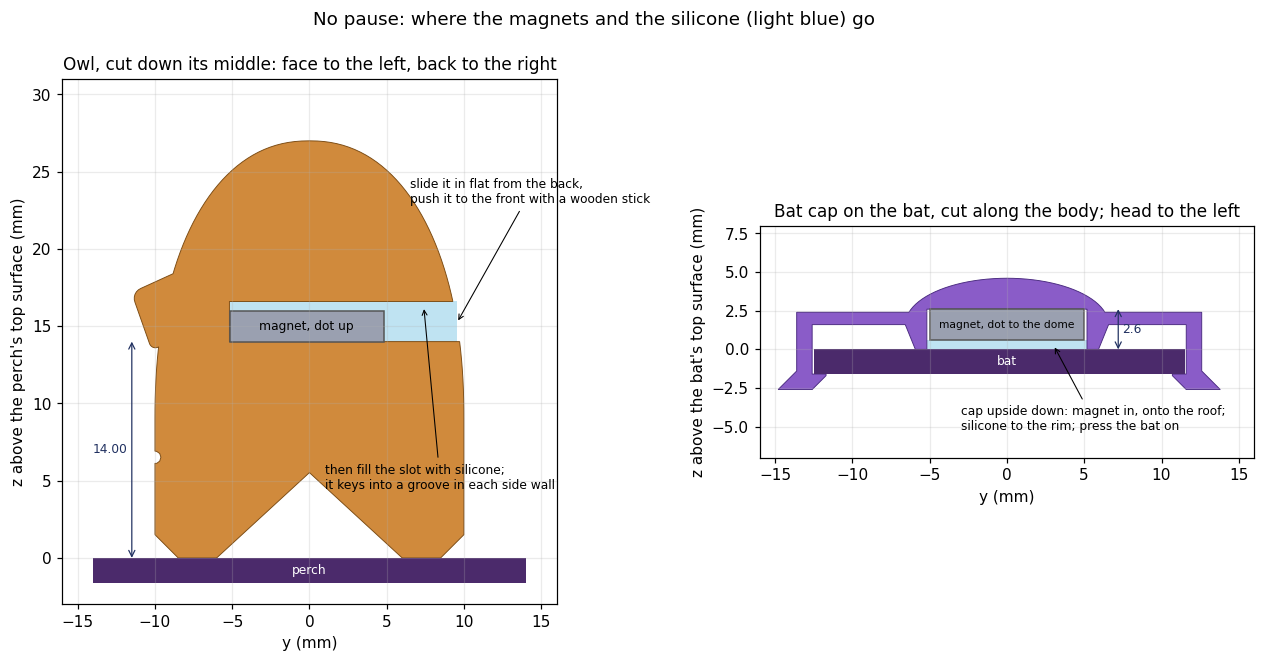
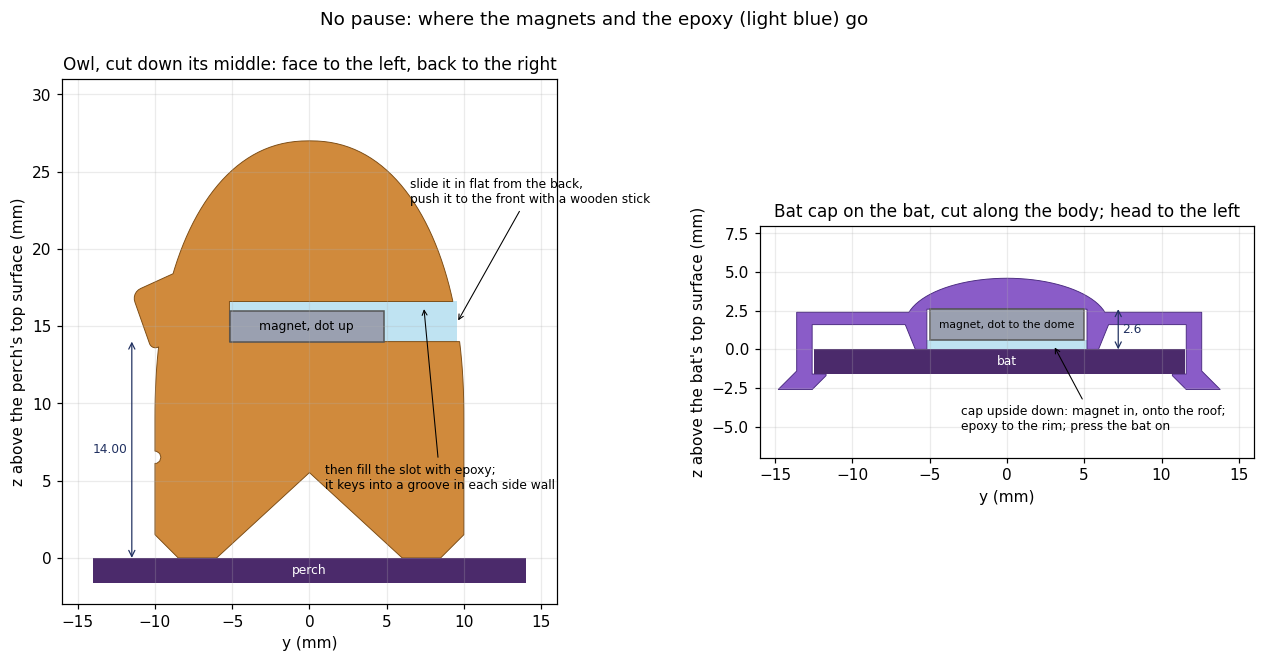
No-pause print: two-part epoxy instead of silicone, and what the glue weighs
Epoxy locks the owl's magnet in for good (silicone barely sticks to PLA). The
README now says the glue doesn't change the float: about +0.03 g on a 3.7 g
bat (the cap loses its 0.4 mm floor), and even 0.1 g moves the float point
only ~0.2 mm, which the zero-power loop absorbs.

Claude-Session: https://claude.ai/code/session_01HRVM5Fj5FWHyYDd1w15Sef

Changed region(s): [[0.2466, 0.0, 0.6783, 0.0604], [0.7399, 0.6344, 0.9249, 0.6647], [0.37, 0.6949, 0.4008, 0.7251]]

diff --git a/print/build.py b/print/build.py
@@ -479,11 +479,11 @@ def pictures(parallel, meshes):
             ["build/v_open_owl_back.png", "build/v_open_cap_below.png"],
             ["owl from behind: the magnet slides in flat through the slot",
              "bat cap from below: no floor; the bat closes the pocket"], cols=2,
-            title="No pause: the magnets go in after printing, held by silicone")
+            title="No pause: the magnets go in after printing, glued in with epoxy")
 
 
 def open_sections(meshes):
-    """out/no_pause/magnets_in.png: where each magnet and the silicone go, cut through."""
+    """out/no_pause/magnets_in.png: where each magnet and the epoxy go, cut through."""
     import matplotlib
     matplotlib.use("Agg")
     import matplotlib.pyplot as plt
@@ -507,7 +507,7 @@ def open_sections(meshes):
     ax.annotate("slide it in flat from the back,\npush it to the front with a wooden stick",
                 xy=(back, D.OWL_FLOOR + 1.2), xytext=(back - 3, D.OWL_FLOOR + 9), fontsize=8,
                 arrowprops=dict(arrowstyle="->", lw=0.7))
-    ax.annotate("then fill the slot with silicone;\nit keys into a groove in each side wall",
+    ax.annotate("then fill the slot with epoxy;\nit keys into a groove in each side wall",
                 xy=(D.OPEN_KEY_Y, D.OWL_FLOOR + 2.3), xytext=(1, D.OWL_FLOOR - 9.5), fontsize=8,
                 arrowprops=dict(arrowstyle="->", lw=0.7))
     ax.set_title("Owl, cut down its middle: face to the left, back to the right", fontsize=11)
@@ -522,13 +522,13 @@ def open_sections(meshes):
                            fc=C["mag"], ec="#555"))
     ax.text(0, D.CAP_OPEN_DEPTH - 1.0, "magnet, dot to the dome", ha="center", va="center", fontsize=7)
     ax.text(0, -0.8, "bat", color="white", fontsize=8, ha="center", va="center")
-    ax.annotate("cap upside down: magnet in, onto the roof;\nsilicone to the rim; press the bat on",
+    ax.annotate("cap upside down: magnet in, onto the roof;\nepoxy to the rim; press the bat on",
                 xy=(3, 0.3), xytext=(-3, -5.2), fontsize=8, arrowprops=dict(arrowstyle="->", lw=0.7))
     dim(ax, (7.2, 0), (7.2, D.CAP_OPEN_DEPTH), "%.1f" % D.CAP_OPEN_DEPTH, off=(0.9, 0))
     ax.set_title("Bat cap on the bat, cut along the body; head to the left", fontsize=11)
     ax.set_xlim(-16, 16); ax.set_ylim(-7, 8); ax.set_aspect("equal"); ax.grid(alpha=0.25)
     ax.set_xlabel("y (mm)"); ax.set_ylabel("z above the bat's top surface (mm)")
-    fig.suptitle("No pause: where the magnets and the silicone (light blue) go", fontsize=12)
+    fig.suptitle("No pause: where the magnets and the epoxy (light blue) go", fontsize=12)
     fig.savefig(os.path.join(OPEN_OUT, "magnets_in.png"), dpi=110, bbox_inches="tight")
     plt.close(fig)
 

diff --git a/print/design.py b/print/design.py
@@ -145,15 +145,15 @@ CAP_PED_HALF_X = CAP_DOME_R + 1.0
 # --- the no-pause version (out/no_pause/): the magnets go in after printing ---------------
 # The owl's pocket opens out of its back through a slot the magnet slides along, flat; the
 # cap's pocket has no floor, so its magnet goes in from below before the cap goes on, and
-# the bat closes it.  Silicone fills what's left.  Both magnets end up where the pause
+# the bat closes it.  Two-part epoxy fills what's left.  Both magnets end up where the pause
 # version puts them: the owl's on its pocket floor (OWL_FLOOR), the cap's against its roof
 # (where the pause version's magnet is pulled when the bat floats).
 OPEN_GAP_T = 13 * LAYER       # the owl's pocket and slot, for a 2.0 mm magnet: room for the
-                              # bridged roof to sag a little, and for silicone
+                              # bridged roof to sag a little, and for the epoxy
 OPEN_SLOT_W = 10.5            # the slot (magnet 10.0); the pocket's round front end centres it
 OPEN_SLOT_END = OWL_B + 1.0   # the slot runs out through the owl's back
 OPEN_KEY_Y = 7.4              # a groove up each of the slot's side walls, behind the magnet:
-OPEN_KEY_W = 1.2              # the silicone plug keys into them (silicone barely sticks to PLA)
+OPEN_KEY_W = 1.2              # the epoxy plug keys into them
 OPEN_KEY_D = 0.8
 CAP_OPEN_DEPTH = CAP_FLOOR_T + POCKET_DEPTH   # bat's top surface to the cap pocket's roof
 

diff --git a/print/check.py b/print/check.py
@@ -448,7 +448,7 @@ def check_open(C, owl_info, cap_info):
     C.add("no-pause owl: the slot opens out of the owl's back", "yes",
           first_hit(body, (0, y_front + 1, zm), (0, 1, 0)) is None, "", "")
     plug = 40 - back - (y_front + M.MAGNET_D)
-    C.within("no-pause owl: silicone plug behind the magnet", plug, 3.0, None)
+    C.within("no-pause owl: epoxy plug behind the magnet", plug, 3.0, None)
     C.within("no-pause owl: thinnest plastic over the pocket", roof(body, (0, y_front + M.POCKET_D / 2), M.POCKET_D,
                                                                     top), 1.0, None)
     # --- the cap
@@ -534,7 +534,7 @@ def run(verbose=True):
         % (owl["height"], D.float_gap(owl["lift"]) or float("nan")),
         "overhangs  no floating islands; farthest unsupported spot %s"
         % ", ".join("%s %.1f mm" % (r["name"], r["worst"][0][0] if r["worst"] else 0) for r in oh[:3]),
-        "no-pause owl  slot %.1f x %.1f; magnet %.2f mm above the top copper, %.1f mm of silicone behind it"
+        "no-pause owl  slot %.1f x %.1f; magnet %.2f mm above the top copper, %.1f mm of epoxy behind it"
         % (opn["slot"], opn["gap"], opn["lift"], opn["plug"]),
         "no-pause cap  no floor; magnet top %.1f mm above the bat; pocket roofs bridged (%s mm out)"
         % (opn["magnet_top"], " / ".join("%.1f" % (r["worst"][0][0] if r["worst"] else 0) for r in oh[3:])),

diff --git a/print/README.md b/print/README.md
@@ -100,26 +100,28 @@ Orca Slicer should open `plate_bambu.3mf` the same way, but I haven't tested it:
 
 ## The no-pause version: glue the magnets in afterwards
 
-`out/no_pause/` is the same plate, printed straight through, with nothing to do mid-print. The owl's pocket opens out of its **back** (toward the tree) as a slot the magnet slides along, flat. The bat cap's pocket has **no floor**: its magnet goes in from below, and the bat closes the pocket when the cap goes on. Silicone fills what's left. Each magnet ends up exactly where the pause version puts it. The owl's magnet rests on its pocket floor, 14.05 mm above the perch's top copper, where its weight and the bat's pull hold it. The cap's magnet sits against the pocket's roof, where the floating bat's pull would put it anyway.
+`out/no_pause/` is the same plate, printed straight through, with nothing to do mid-print. The owl's pocket opens out of its **back** (toward the tree) as a slot the magnet slides along, flat. The bat cap's pocket has **no floor**: its magnet goes in from below, and the bat closes the pocket when the cap goes on. Two-part epoxy fills what's left. Each magnet ends up exactly where the pause version puts it. The owl's magnet rests on its pocket floor, 14.05 mm above the perch's top copper, where its weight and the bat's pull hold it. The cap's magnet sits against the pocket's roof, where the floating bat's pull would put it anyway.
 
 ![the no-pause parts](out/no_pause/parts.png)
-![where the magnets and the silicone go](out/no_pause/magnets_in.png)
+![where the magnets and the epoxy go](out/no_pause/magnets_in.png)
 
 **Print** `out/no_pause/plate_bambu.3mf` exactly as above: the same settings and the same "floating cantilever" warnings to ignore, but no mark at layer 97. Through 3DPrinterOS it's the same `.gcode.3mf` export. The roof over each empty pocket is a 10.5 mm bridge, which PLA spans easily. The owl's slot is 2.6 mm tall for a 2.0 mm magnet, so a slightly sagging roof won't jam it.
 
-**You'll also need:** a tube of clear RTV silicone with a narrow nozzle, and a **wooden or plastic** stick, such as a skewer or a toothpick. Don't use a screwdriver: the magnet would follow it back out.
+**You'll also need:** two-part epoxy (a slow-setting one, 5 minutes or more, gives you time; a syringe or a toothpick gets it into the slot), and a **wooden or plastic** stick, such as a skewer or a toothpick. Don't use a screwdriver: the magnet would follow it back out.
 
 **Magnets in** (do this before snapping the parts onto the boards):
 
 1. Mark two magnets off the stack as in "At the pause", step 1: a dot on the top face of each, slid off sideways without turning over. Put the rest of the stack well away.
-2. **Owl:** stand it upright. Slide one magnet, **dot up**, flat into the slot in its back, and push it in with the stick until it stops against the front of the pocket. Its back edge is then about 4 mm inside the owl. Fill the slot with silicone to the owl's back surface, working it into the slot's two side grooves: they key the plug in, since silicone barely sticks to PLA. Leave the owl upright while it cures.
-3. **Bat cap:** hold it **upside down** (dome down, pocket opening up). Drop the other magnet in, **dot down**, toward the dome. Upside down, that's the same as dot up when the cap is on the bat. It rests on the pocket's roof. Fill the rest of the pocket (about 0.6 mm) with silicone, level with the rim.
-4. While the silicone is wet, press the bat on: turn the bat **top face down**, line the cap's ears up with the bat's head, and press until both hooks click. Wipe off what squeezes out. Then glue the hooks with cyanoacrylate, as in "Assembly", step 3. The silicone also bonds the magnet to the bat, so it's sealed in on every side.
-5. Let the silicone cure (see its tube, usually a day) before you put the owl on the perch.
+2. **Owl:** stand it upright. Slide one magnet, **dot up**, flat into the slot in its back, and push it in with the stick until it stops against the front of the pocket. Its back edge is then about 4 mm inside the owl. Fill the slot with epoxy to the owl's back surface, working it into the slot's two side grooves, which key the plug in. Leave the owl upright while it cures, so the magnet stays flat on its floor.
+3. **Bat cap:** hold it **upside down** (dome down, pocket opening up). Drop the other magnet in, **dot down**, toward the dome. Upside down, that's the same as dot up when the cap is on the bat. It rests on the pocket's roof. Fill the rest of the pocket (about 0.6 mm) with epoxy, level with the rim.
+4. While the epoxy is wet, press the bat on: turn the bat **top face down**, line the cap's ears up with the bat's head, and press until both hooks click. Wipe off what squeezes out. Then glue the hooks with cyanoacrylate, as in "Assembly", step 3. The epoxy also bonds the magnet to the bat, so it's sealed in on every side.
+5. Let the epoxy cure fully (see its package; give it a day) before you put the owl on the perch.
 
-**Check the polarity** once it's cured: hold the bat under the owl and it should be pulled up. If it's pushed away, one magnet went in upside down. The owl's is the easy one to redo: dig out the silicone and slide its magnet out.
+**Weight.** The glue doesn't change the float. The owl's glue doesn't matter: the owl is clipped to the perch. The bat's cap trades its 0.4 mm PLA floor (0.04 g) for up to about 0.07 g of epoxy round and under the magnet: about 0.03 g more on a 3.7 g bat, under 1 %. Even a sloppy 0.1 g extra moves the bat's float point only about 0.2 mm up (its weight over the magnets' 4.8 N/m force gradient, `sim/physics/levitation_onemagnet.py`), which the zero-power loop finds by itself. Wipe off the squeeze-out anyway.
 
-**Child safety.** The cap's magnet is enclosed: plastic on top and sides, the bat underneath, the cap glued on. The owl's magnet is held by a silicone plug a few millimetres deep. That's less secure than the pause version, which seals the magnet in plastic. The owl is too big to swallow, but a determined child could dig the plug out and free the magnet. For a toy, prefer the pause version, or fill the owl's slot with **two-part epoxy** instead of silicone; epoxy keys into the grooves and doesn't come out.
+**Check the polarity** once it's cured: hold the bat under the owl and it should be pulled up. If it's pushed away, one magnet went in upside down. Cured epoxy doesn't come out, so reprint that part. That's why it's worth checking before the glue goes in: a magnet dot up attracts another held above it dot up, the way the stack did.
+
+**Child safety.** The cap's magnet is enclosed: plastic on top and sides, the bat underneath, the cap glued on. The owl's magnet is held by an epoxy plug about 4 mm deep, locked into the slot's grooves. The owl is too big to swallow. Don't use silicone here instead: it barely sticks to PLA, and a child could dig it out and free the magnet.
 
 ## After printing
 
@@ -154,7 +156,7 @@ cap preload  1.8 / 3.5 N per hook (arm stress 17 / 33 MPa) when the board is 0.1
 cap mass  0.49 g of PLA (it prints solid; 1.24 g/cm3)
 owl  30.1 mm tall above the perch; bat floats 8.5 mm below the perch (sim/physics)
 overhangs  no floating islands; farthest unsupported spot owl 0.9 mm, bat cap 3.2 mm, foot 0.4 mm
-no-pause owl  slot 10.5 x 2.6; magnet 14.05 mm above the top copper, 4.2 mm of silicone behind it
+no-pause owl  slot 10.5 x 2.6; magnet 14.05 mm above the top copper, 4.2 mm of epoxy behind it
 no-pause cap  no floor; magnet top 2.6 mm above the bat; pocket roofs bridged (5.3 / 5.2 mm out)
 ```
 <!-- numbers: end -->
@@ -169,7 +171,7 @@ no-pause cap  no floor; magnet top 2.6 mm above the bat; pocket roofs bridged (5
 
 ## Safety
 
-Both magnets are sealed inside printed plastic: no glue, no open pocket (`PLAN.md` §7). (The no-pause version is the exception: its owl's magnet is held by a silicone plug. See its section.) The owl is too big to swallow. The bat cap is a small part with a magnet in it, so keep it hooked onto the bat; the 48 mm bat is not a small part. Swallowed neodymium magnets are dangerous; a grown-up should handle spare magnets and do the pause.
+Both magnets are sealed inside printed plastic: no glue, no open pocket (`PLAN.md` §7). (The no-pause version is the exception: its owl's magnet is held by an epoxy plug. See its section.) The owl is too big to swallow. The bat cap is a small part with a magnet in it, so keep it hooked onto the bat; the 48 mm bat is not a small part. Swallowed neodymium magnets are dangerous; a grown-up should handle spare magnets and do the pause.
 
 ## For the board designer
 

diff --git a/ORDER_LIST.md b/ORDER_LIST.md
@@ -13,7 +13,7 @@ order them all on the same day.
 | 5 | **Thread for the pendulum**: clear nylon monofilament (fishing line, 4-8 lb, about 0.2-0.3 mm) or black sewing thread | what you have | 30 cm | |
 | 1a | **Three connectors to solder at home** (`mfg/release/hand_solder_bom.csv`): 2 x PZ254-2-08-W-8.5 right-angle 2x8 headers (LCSC C2894988) and 1 x PM254-2-08-Z-8.5 2x8 socket (C2897409) | LCSC, in the JLCPCB order | 2 + 1 (buy 4 + 2: a spare set) | $2 |
 | 6 | **A drop of cyanoacrylate glue** for the bat's cap | what you have | | |
-| 7 | *Only for the no-pause print* (`print/README.md`): **clear RTV silicone** with a narrow nozzle, or two-part epoxy for the owl | what you have | a few drops | |
+| 7 | *Only for the no-pause print* (`print/README.md`): **two-part epoxy**, a slow-setting one | what you have | a few drops | |
 
 ## 1. The boards (JLCPCB)
 
